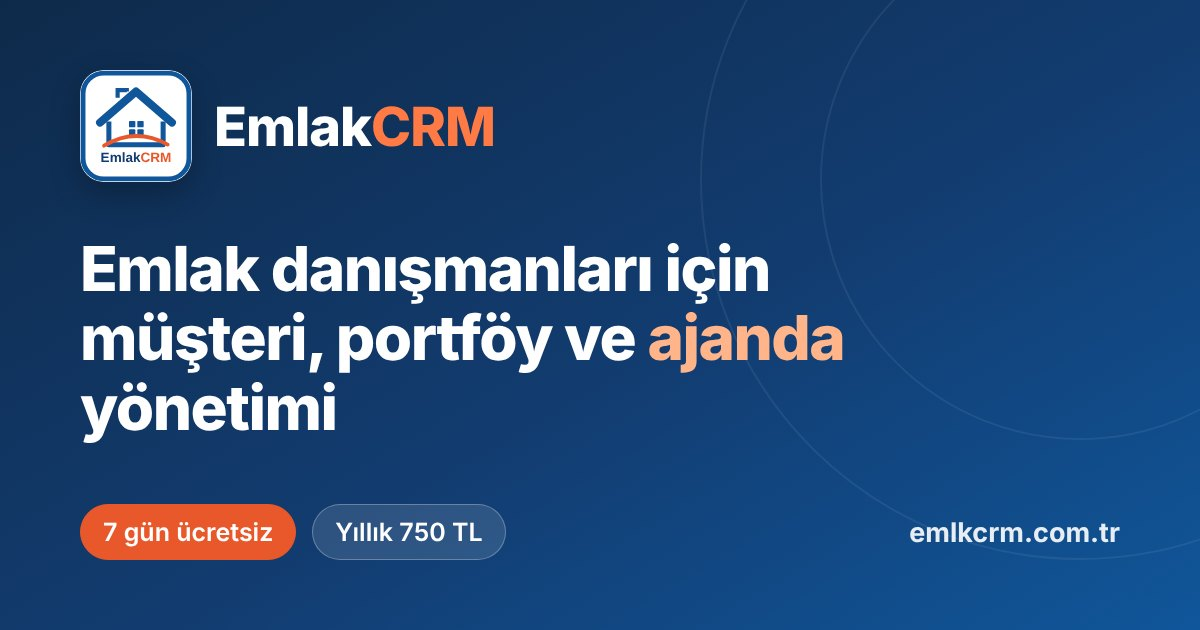
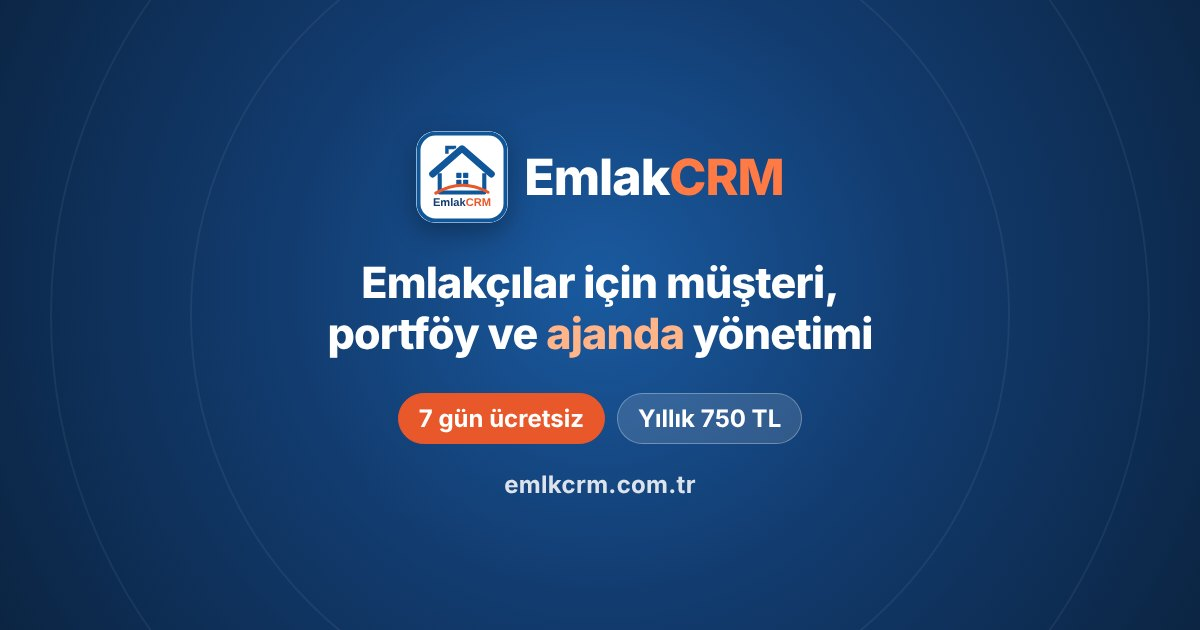
Add files via upload
Paylaşım görseli v2

diff --git a/emlak-crm-programi.html b/emlak-crm-programi.html
@@ -12,7 +12,7 @@
 <meta property="og:title" content="EmlakCRM – Emlakçılar için Müşteri ve Portföy Yönetimi">
 <meta property="og:description" content="Müşteri, portföy, ajanda ve 7 araç tek ekranda. Yıllık 750 TL, 7 gün ücretsiz.">
 <meta property="og:url" content="https://emlkcrm.com.tr/emlak-crm-programi.html">
-<meta property="og:image" content="https://emlkcrm.com.tr/assets/og-gorsel.jpg?v=1">
+<meta property="og:image" content="https://emlkcrm.com.tr/assets/og-gorsel.jpg?v=2">
 <meta property="og:image:width" content="1200">
 <meta property="og:image:height" content="630">
 <meta property="og:image:alt" content="EmlakCRM – Emlak danışmanları için müşteri, portföy ve ajanda yönetimi">

diff --git a/index.html b/index.html
@@ -7,7 +7,7 @@
 <meta property="og:title" content="EmlakCRM – Emlakçılar için Müşteri ve Portföy Yönetimi">
 <meta property="og:description" content="Müşteri, portföy, ajanda ve 7 araç tek ekranda. Yıllık 750 TL, 7 gün ücretsiz.">
 <meta property="og:url" content="https://emlkcrm.com.tr/">
-<meta property="og:image" content="https://emlkcrm.com.tr/assets/og-gorsel.jpg?v=1">
+<meta property="og:image" content="https://emlkcrm.com.tr/assets/og-gorsel.jpg?v=2">
 <meta property="og:image:width" content="1200">
 <meta property="og:image:height" content="630">
 <meta property="og:image:alt" content="EmlakCRM – Emlak danışmanları için müşteri, portföy ve ajanda yönetimi">
